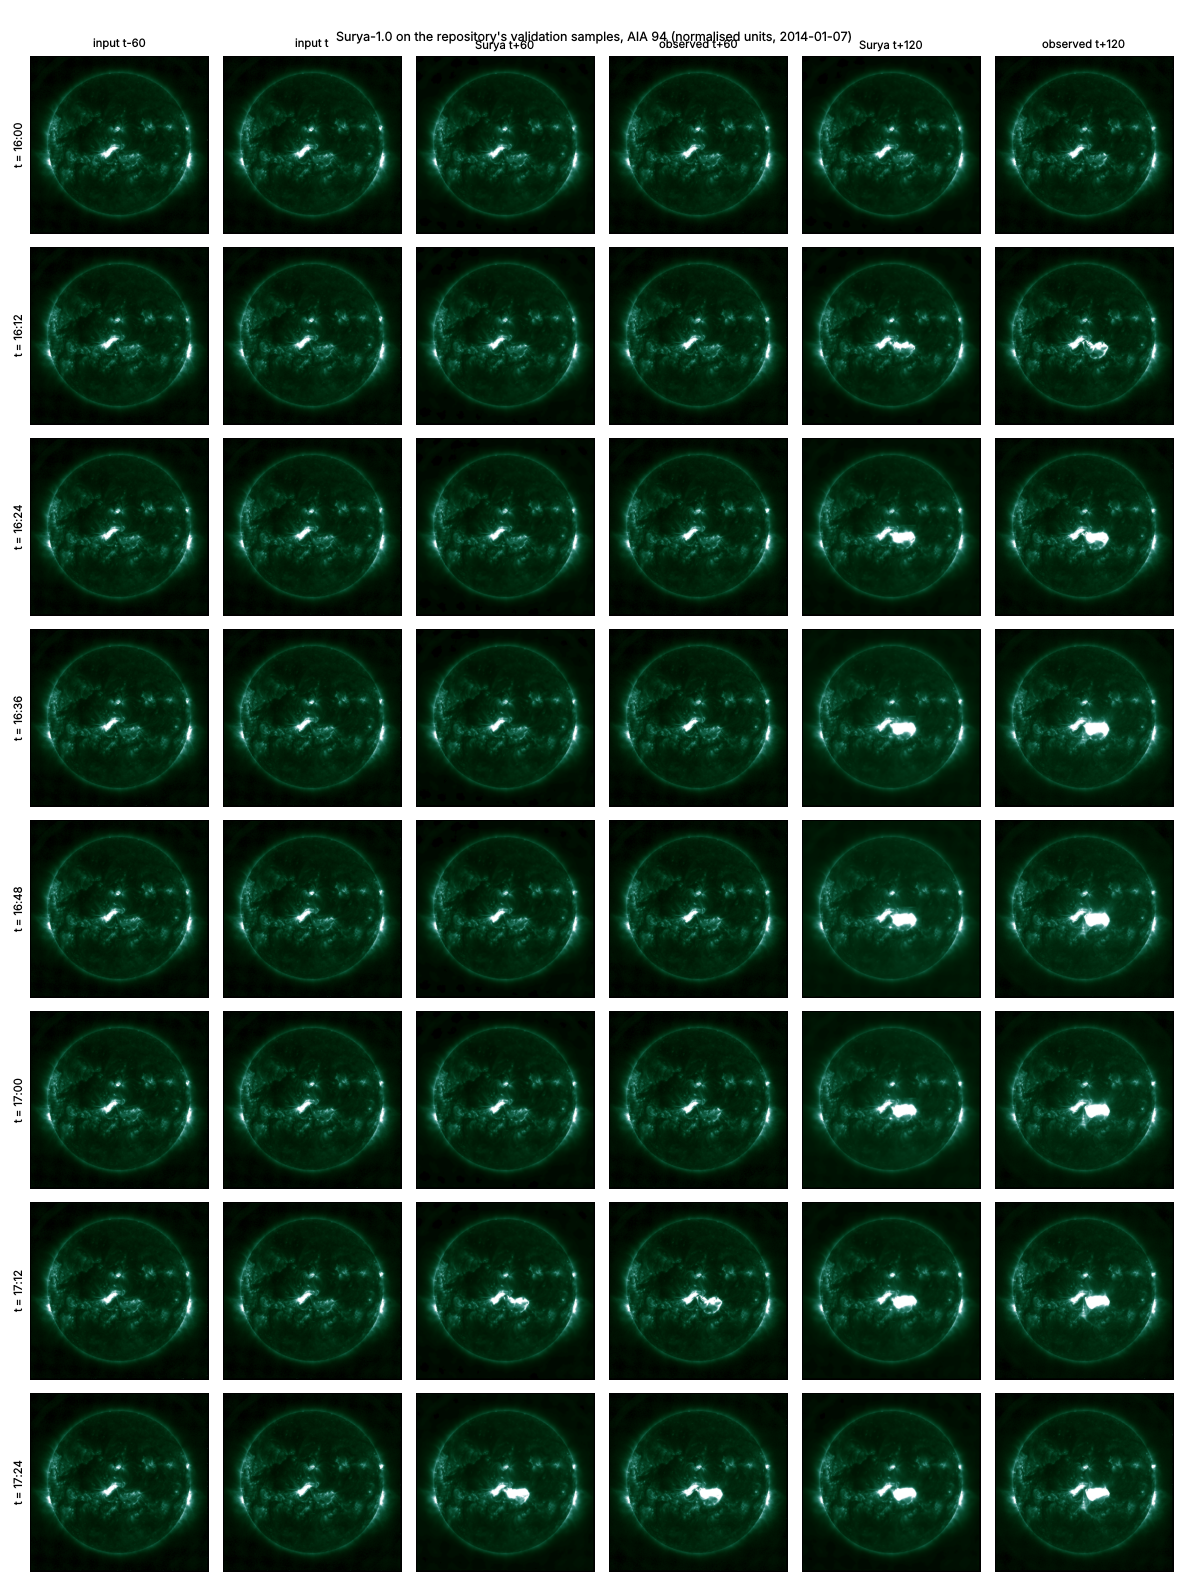
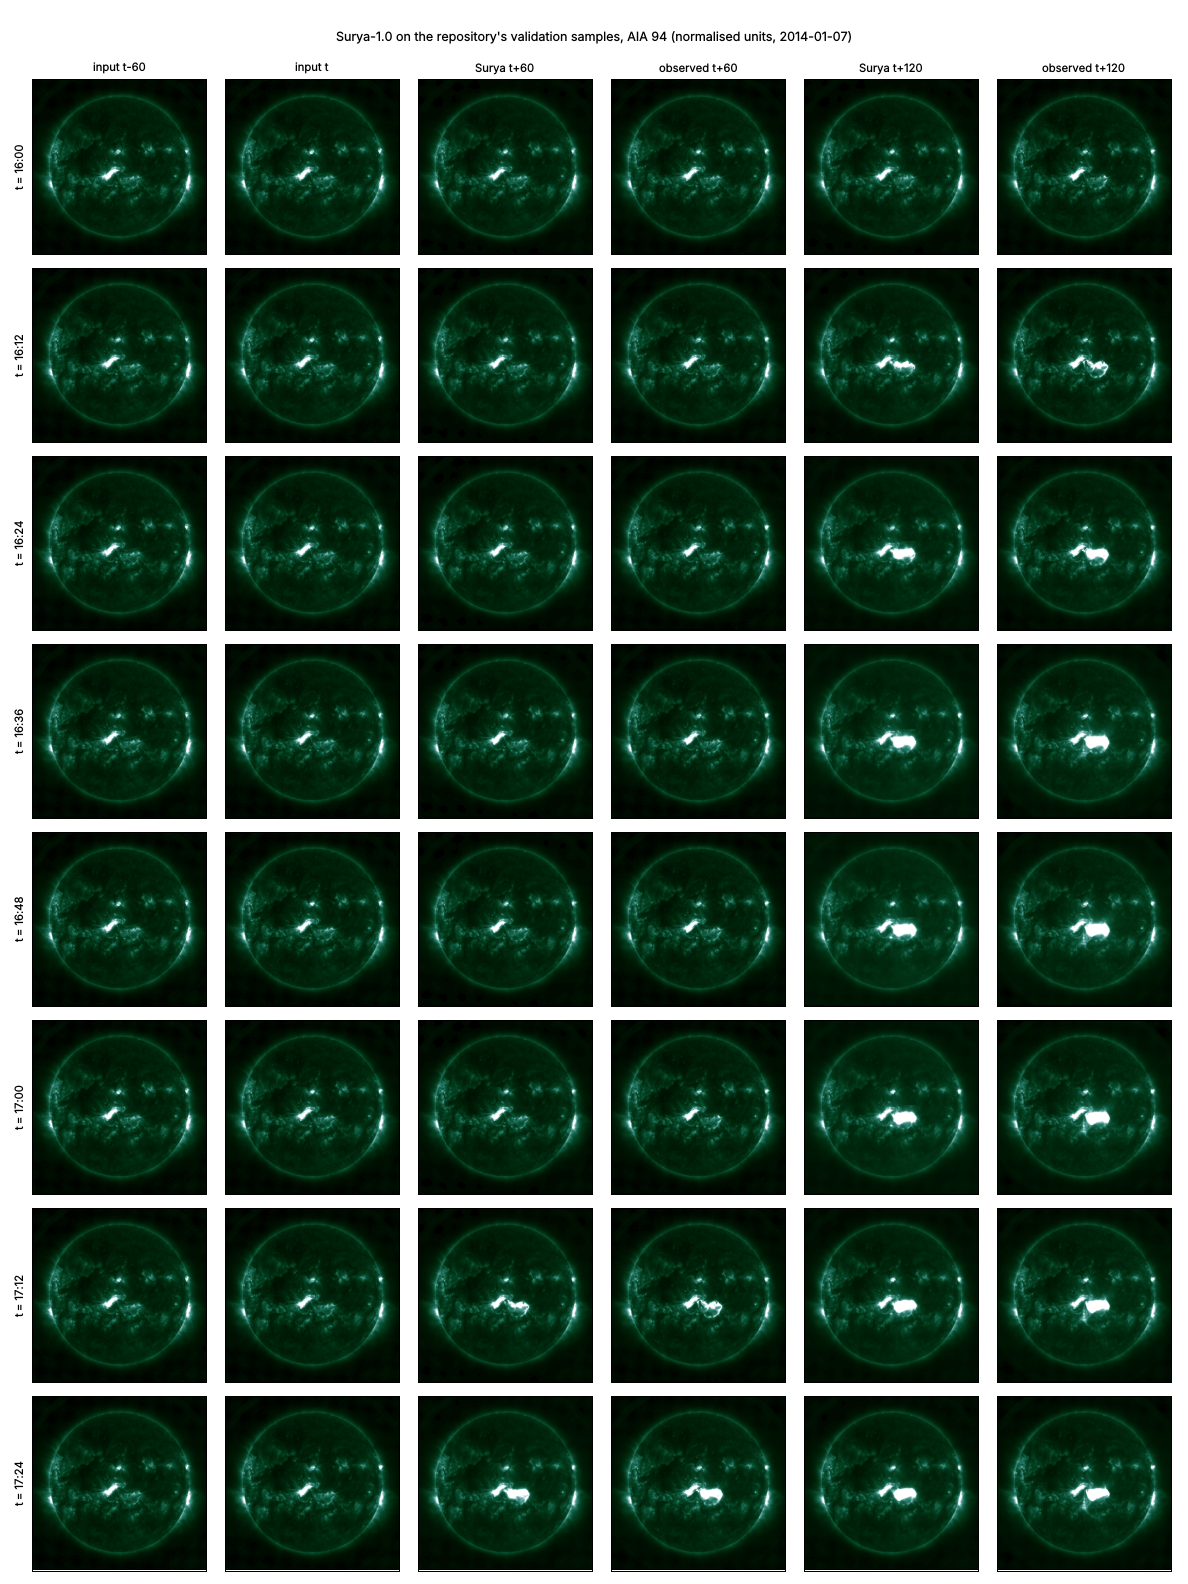
Surya validation figure: title no longer overlaps the column labels
Claude-Session: https://claude.ai/code/session_01MvriMRsZkhmwXxUdZanJkj

diff --git a/scripts/Surya/downstream/solar_wind_subset_eval.py b/scripts/Surya/downstream/solar_wind_subset_eval.py
@@ -65,7 +65,13 @@ Usage (from the repository root):
   python scripts/Surya/downstream/solar_wind_subset_eval.py --split validation --n 10 --seed 0
   python scripts/Surya/downstream/solar_wind_subset_eval.py --summarize-only
 A rerun skips time stamps already in per_sample_<split>.jsonl, so an interrupted run resumes; --max-forward K limits
-one invocation to K forward passes (the dry run prints the K that fits in about 90 minutes).
+one invocation to K forward passes (the dry run prints the K that fits in about 90 minutes). Records that are not rows
+of the current sample file (another --n/--seed) are ignored by the run and the summary. Run the validation split
+first: its three notebook anchors are the only end-to-end check of the pipeline against the authors' own run. The
+real run refuses to start with less than --min-ram-gb (12) of MemAvailable (one fp32 forward pass peaks at 10-13 GB).
+
+Compact frames: some 2020-2024 frames on S3 store AIA 131-335 in well under half the usual bytes (quantised values).
+They are scored like any other input; summary.json adds the metrics without them as a sensitivity check.
 """
 import argparse
 import collections
@@ -1353,7 +1359,32 @@ def dry_run(args, out_dir, label_info):
     check = metric_self_test(out_dir)
     log(f"metric self-test passed (evaluate_model rel diff {check['finetune_evaluate_model_max_rel_diff']:.1e}, "
         f"infer.py printout abs diff {check['infer_single_sample_max_abs_diff']:.1e})")
+    try:
+        ck_struct = checkpoint_structure_check(cfg_inf)
+    except Exception as e:  # network trouble must not hide the rest of the dry run
+        ck_struct = {"ok": None, "error": repr(e)[:500]}
+    log(f"checkpoint tensor list vs the model config_infer.yaml builds (strict-load precondition): ok "
+        f"{ck_struct['ok']}; {ck_struct.get('n_tensors')} tensors, {ck_struct.get('parameters_excluding_pos_embed_buffer')}"
+        f" parameters, {ck_struct.get('lora_parameters')} LoRA (notebook {NOTEBOOK_PARAMS_ALL} / {NOTEBOOK_PARAMS_LORA})"
+        f", LoRA on {ck_struct.get('lora_targets_present')}, absent targets {ck_struct.get('lora_targets_absent')}"
+        + ("" if ck_struct["ok"] else f"  WARNING: {json.dumps(ck_struct)[:800]}"))
+    old_sample_csv = os.path.join(out_dir, f"sample_{args.split}.csv")
+    old_keys = {sample_key(r) for r in pd.read_csv(old_sample_csv).to_dict("records")} \
+        if os.path.exists(old_sample_csv) else None
     sample, meta = get_sample(args, out_dir, cfg, scalers, force=True)
+    meta["checkpoint_structure_check"] = ck_struct
+    recs_old = read_records(per_sample_path(out_dir, args.split))
+    if recs_old:
+        _, n_foreign = records_in_sample(recs_old, sample)
+        changed = old_keys is not None and old_keys != {sample_key(r) for r in sample.to_dict("records")}
+        meta["existing_records_not_in_this_sample"] = int(n_foreign)
+        if n_foreign or changed:
+            log(f"WARNING: the redrawn sample differs from the previous sample file ({n_foreign} of {len(recs_old)} "
+                f"existing records in {per_sample_path(out_dir, args.split)} are not rows of it); those records "
+                f"will be ignored by the run and the summary")
+    ci = meta.get("compact_input_frames", {})
+    log(f"compact input frames (quantised AIA 131-335; scored, with a sensitivity check): "
+        f"{len(ci.get('primary', []))} primaries {ci.get('primary', [])}, {len(ci.get('reserve', []))} reserves")
     # what a run executes: anchors first (validation split), then one primary per block
     roles = ["anchor", "primary"] + (["reserve"] if args.include_reserves else [])
     prim = pd.concat([sample[sample.role == r] for r in roles], ignore_index=True).drop_duplicates("timestamp")
@@ -1689,6 +1720,8 @@ def main():
                     help="validation split: leave out the three notebook anchor samples (3 extra forward passes)")
     ap.add_argument("--no-prefetch", action="store_true", help="keep only one sample's frames on disk (~1.2 GB)")
     ap.add_argument("--delete-checkpoint", action="store_true", help="remove the 1.8 GB checkpoint at the end")
+    ap.add_argument("--min-ram-gb", type=float, default=MIN_RAM_GB,
+                    help="refuse to start the real run with less RAM available (MemAvailable)")
     ap.add_argument("--summarize-only", action="store_true", help="recompute summary.json from the jsonl files")
     args = ap.parse_args()
     args.n = args.n or DEFAULT_N[args.split]

diff --git a/scripts/Surya/downstream/ar_segmentation_subset_eval.py b/scripts/Surya/downstream/ar_segmentation_subset_eval.py
@@ -228,20 +228,38 @@ class RangeFile(io.RawIOBase):
         return n
 
 
-def remote_nc_channels(key):
+def is_network_error(e):
+    """True if e, or an exception it was raised from, is a requests error (h5py wraps errors of the file object)."""
+    while e is not None:
+        if isinstance(e, requests.RequestException):
+            return True
+        e = e.__cause__ or e.__context__
+    return False
+
+
+def remote_nc_channels(key, tries=4):
     """(worker) Shapes and stored (compressed) chunk sizes of the data variables of one S3 netCDF frame, read from
-    its HDF5 header only (about 0.8 MB of range requests per frame)."""
+    its HDF5 header only (about 0.8 MB of range requests per frame). Network errors are retried and then raised,
+    never turned into a skip: a skip changes the seeded sample, so it must depend on the file, not on the proxy."""
     import h5py
-    rf = RangeFile(f"{C.S3}/{key}")
-    with h5py.File(io.BufferedReader(rf, 1 << 16), "r") as f:
-        shapes = {k: tuple(f[k].shape) for k in f.keys() if isinstance(f[k], h5py.Dataset)}
-        stored = {}
-        for k in C.CHANNELS:
-            try:
-                stored[k] = int(sum(f[k].id.get_chunk_info(i).size for i in range(f[k].id.get_num_chunks())))
-            except Exception:
-                stored[k] = None
-    return shapes, rf.nbytes, stored
+    for attempt in range(tries):
+        try:
+            rf = RangeFile(f"{C.S3}/{key}")
+            with h5py.File(io.BufferedReader(rf, 1 << 16), "r") as f:
+                shapes = {k: tuple(f[k].shape) for k in f.keys() if isinstance(f[k], h5py.Dataset)}
+                stored = {}
+                for k in C.CHANNELS:
+                    try:
+                        stored[k] = int(sum(f[k].id.get_chunk_info(i).size for i in range(f[k].id.get_num_chunks())))
+                    except Exception:
+                        stored[k] = None
+            return shapes, rf.nbytes, stored
+        except Exception as e:
+            if not is_network_error(e):
+                raise
+            if attempt == tries - 1:  # re-raised as a plain requests error: the cause chain is lost across processes
+                raise requests.ConnectionError(f"header read failed {tries} times: {e!r}") from None
+            time.sleep(2 ** (attempt + 2))
 
 
 def checkpoint_header(url):
@@ -600,6 +618,9 @@ def select_sample(split, n, seed, check_channels=True, want_per_block=2, max_tri
                     try:
                         chan[j] = f.result()
                     except Exception as e:  # unreadable header
+                        if is_network_error(e):  # still failing after the retries: stop rather than skip
+                            raise RuntimeError(f"network error reading the header of {C.s3_key(batch[j][1])}; "
+                                               f"rerun the dry run") from e
                         chan[j] = e
             for j, (bi, t, fpth) in enumerate(batch):  # assignment in permutation order -> deterministic
                 ok, why, extra = heads[j]

diff --git a/scripts/Surya/summarise_validation.py b/scripts/Surya/summarise_validation.py
@@ -103,7 +103,7 @@ def main():
             ax[i, 0].set_ylabel(f"t = {hhmm[:2]}:{hhmm[2:]}", fontsize=9)
         fig.suptitle("Surya-1.0 on the repository's validation samples, AIA 94 (normalised units, 2014-01-07)",
                      fontsize=10)
-        fig.tight_layout()
+        fig.tight_layout(rect=(0, 0, 1, 0.985))
         fig.savefig(os.path.join(d, "aia94_validation.png"), dpi=90)
 
 

diff --git a/results/Surya/euv_spectra/METHOD.md b/results/Surya/euv_spectra/METHOD.md
@@ -44,4 +44,10 @@ MAPE, its variants, the bootstrap intervals and the baseline are our additions. 
 
 ## Running it
 
-From the repository root, `python scripts/Surya/downstream/euv_spectra_subset_eval.py --split test --n 30 --seed 0` and then `--split validation --n 20 --seed 0` run the model. The first of the two runs also runs the two anchors. The test run is 32 forward passes, about 108 minutes of compute; at 7-8 MB/s from S3 without prefetch it takes about 3 hours. The validation run is 20 passes. `--max-forward K` stops after K passes, and a rerun resumes from `per_sample_<split>.jsonl` and `anchors.jsonl`. The run downloads the 1.78 GB checkpoint into `/home/user/work/surya_ft/euv_spectra/` and keeps at most 2.4 GB of frames on disk (1.2 GB without prefetch). It turns prefetch off when that would leave less than 1 GB free, and stops if even one sample's frames do not fit. `--summarize-only` rebuilds `summary.json` and `per_wavelength_<split>.csv` from the record files.
+From the repository root, run `/home/user/envs/surya/bin/python scripts/Surya/downstream/euv_spectra_subset_eval.py --split test --n 30 --seed 0 --out results/Surya/euv_spectra/` and then the same with `--split validation --n 20`. Each reuses the sample its dry run wrote (`--dry-run` with the same arguments). The first run also runs the two anchors, before the sample. If they deviate grossly from the notebook's printout (prediction range by more than 5e-3, MAE by more than 1e-3), the run stops; `--ignore-anchor-failure` overrides this.
+
+The test run is 32 forward passes. Compute alone is about 1.8 hours at 136 s per pass, or about 3.4 hours at 5 minutes per pass, with frame downloads overlapping the computation (prefetch). The validation run is 20 passes, about 1.2-2.2 hours. `--max-forward K` stops after K passes. A rerun resumes from `per_sample_<split>.jsonl` and `anchors.jsonl`, counting only records whose time stamps are in the current `sample_<split>.csv`.
+
+The run needs the machine to itself. It refuses to start with less than 12 GB of RAM available (`--min-free-ram-gb`). Before each forward pass, it stops cleanly (resumable) if the available RAM cannot cover a peak of 13 GB (`--peak-rss-gb`).
+
+On disk, the run downloads the 1.78 GB checkpoint into `/home/user/work/surya_ft/euv_spectra/`, next to the 0.93 GB EVE file already there. It keeps at most 2.4 GB of frames (two samples with prefetch, 1.2 GB without), so it adds about 4.2 GB at peak. It turns prefetch off when that would leave less than 1 GB free, and stops if even one sample's frames do not fit. Frames left by an interrupted run are reused or deleted, and partial downloads are removed. `--delete-checkpoint` removes the checkpoint at the end. `--summarize-only` rebuilds `summary.json` and `per_wavelength_<split>.csv` from the record files. The review of this script is in `REVIEW.md`.
